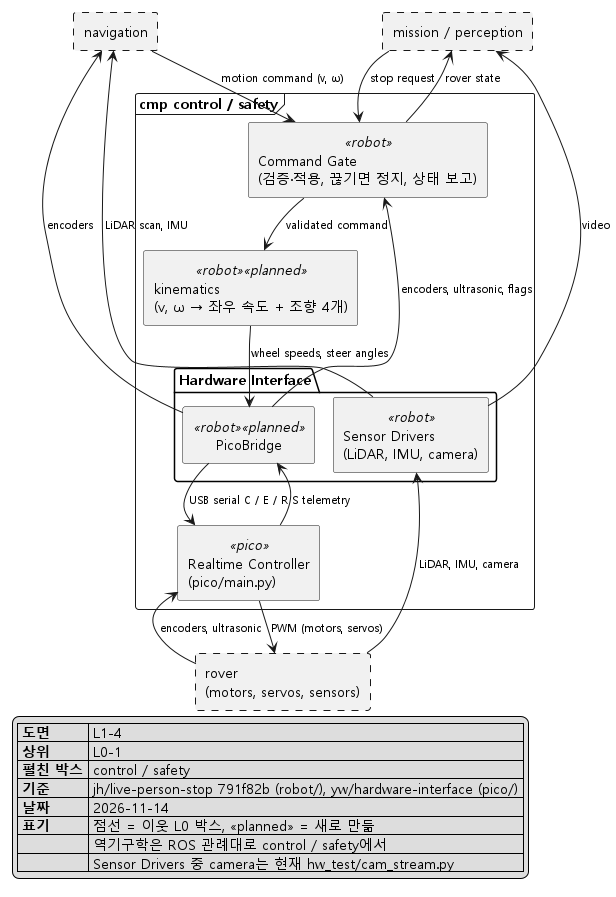
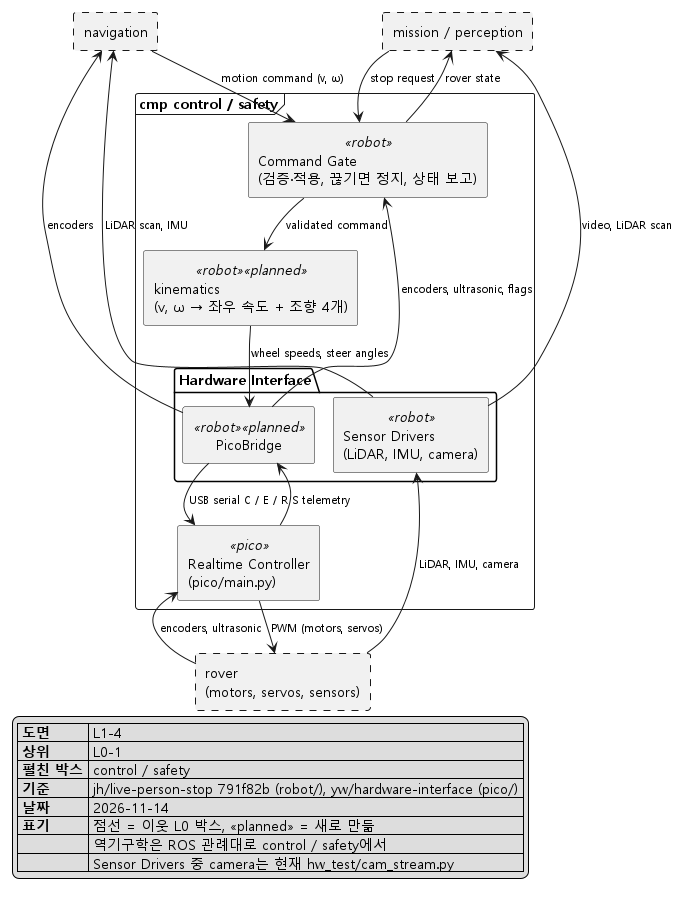
docs: add LiDAR person candidate tracker to perception

diff --git a/docs/architecture/README.md b/docs/architecture/README.md
@@ -32,8 +32,8 @@
 | 관계 | 아래로 (명령) | 위로 (관측 · 보고) |
 |---|---|---|
 | operator ↔ mission / perception | 임무 할당 | 발견 결과 보고 |
-| mission / perception ↔ navigation | 목표 frontier id | frontier 후보 목록 (id) |
-| mission / perception → control / safety | stop 요청 (navigation을 거치지 않음) | 영상, 로버 상태 |
+| mission / perception ↔ navigation | 목표 frontier id | frontier 후보 목록 (id), 지도, pose |
+| mission / perception → control / safety | stop 요청 (navigation을 거치지 않음) | 영상, LiDAR scan, 로버 상태 |
 | navigation ↔ control / safety | 움직임 명령 (v, ω) | 센서 데이터, 로버 상태 |
 | control / safety ↔ rover | 모터 · 조향 출력 | 센서 원본 (카메라, LiDAR, 엔코더, IMU, 초음파) |
 
@@ -43,6 +43,7 @@
 
 **mission / perception**
 - perception: 영상에서 사람이 있는가와 확률을 관측 (`PersonDetector`).
+- perception (만들 것): LiDAR 사람 후보 추적. 카메라는 정면만 보므로 360° LiDAR scan에서 지도에 없는(벽이 아닌) 점 군집을 SORT 같은 추적기로 프레임 간 묶고, 움직이면서 같은 track으로 이어지는 군집을 사람 후보로 본다. 후보 위치(지도 좌표)는 mission에 넘겨 그쪽으로 돌아 카메라로 확인하고, LLM 목표 선택의 입력으로도 쓴다. 이 때문에 근거리 LiDAR 점은 거리 기준으로 거르지 않는다 (11/2 결정).
 - mission: 관측을 보고 멈출지, 어디로 갈지 정한다 (`MissionController`). 현재 구현: 연속 3프레임 사람 → 후보, 목표 취소 + 정지.
 - 만들 것: navigation이 SLAM 지도에서 뽑은 frontier 후보에 id를 붙여 올리면, LLM이 추가 관측까지 보고 하나를 골라 그 id를 목표로 내린다. 목록에 없는 id는 검증에서 거른다.
 
